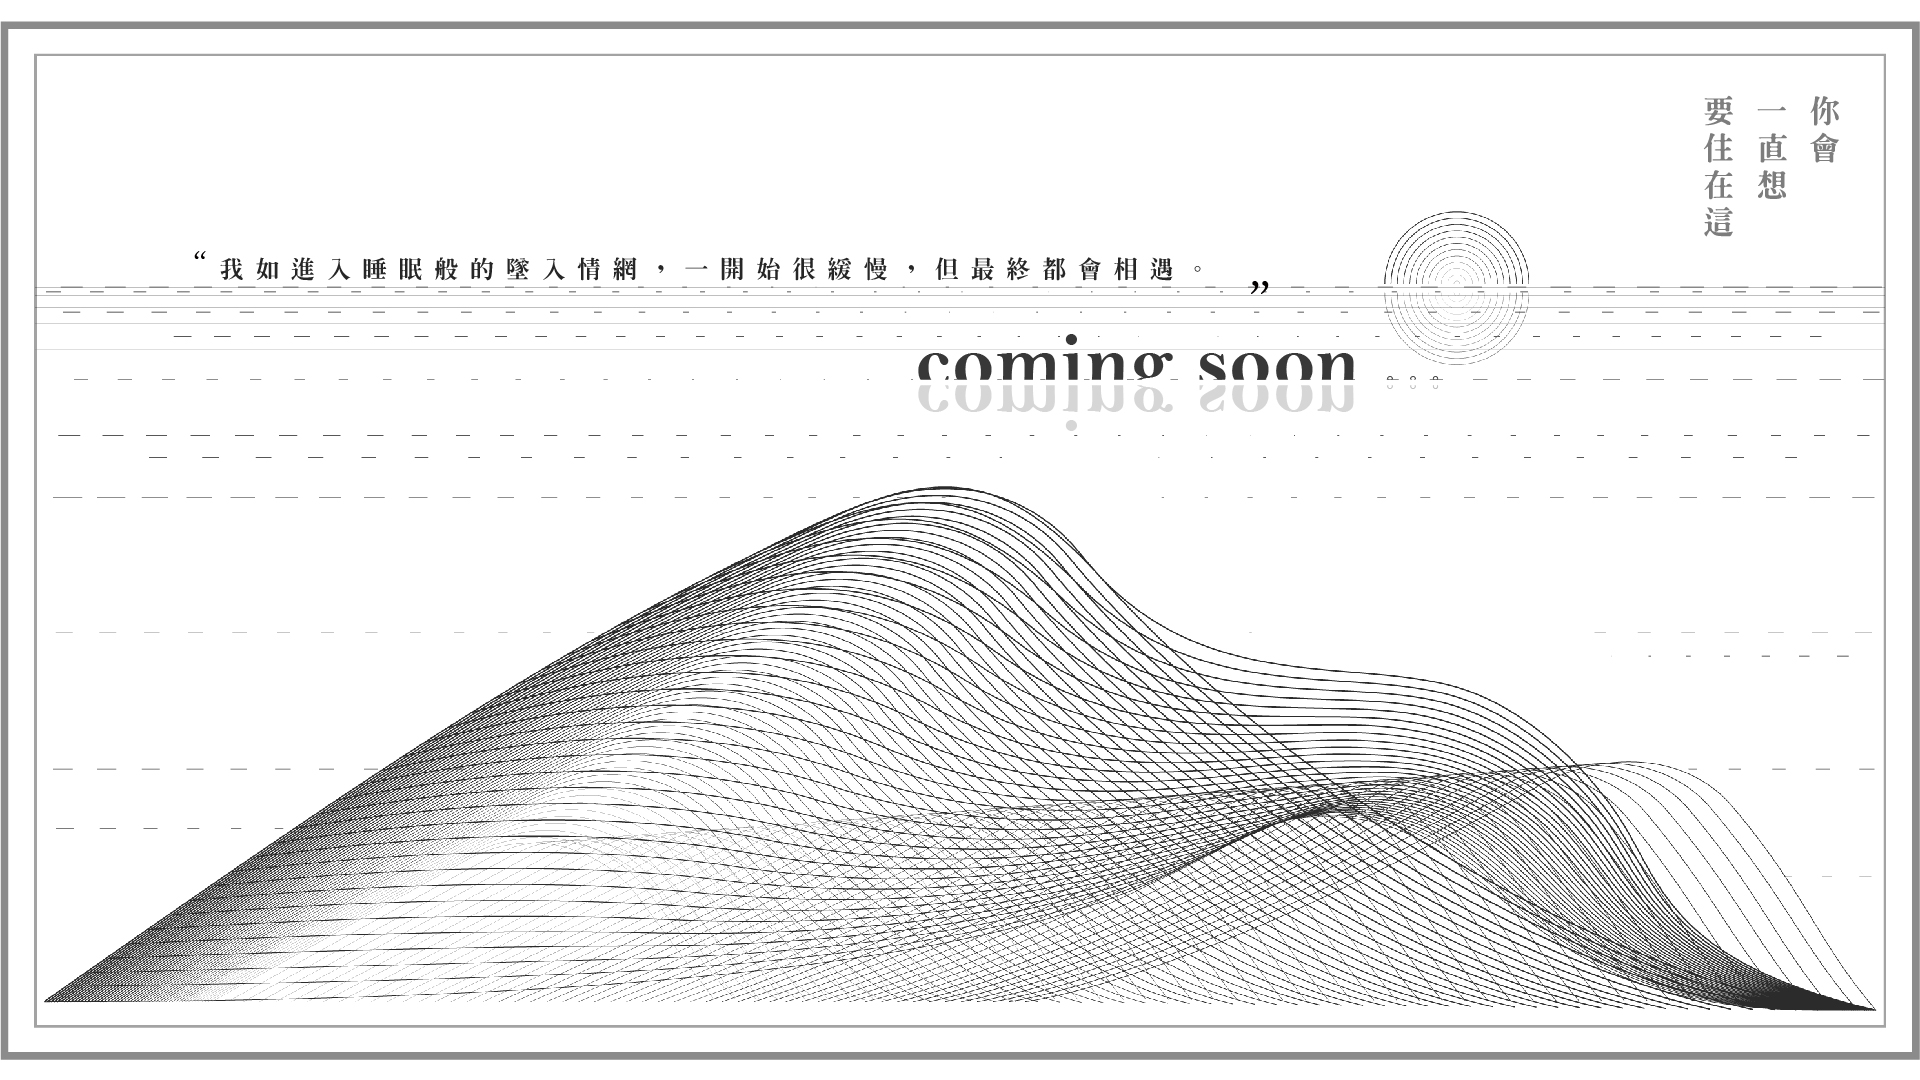
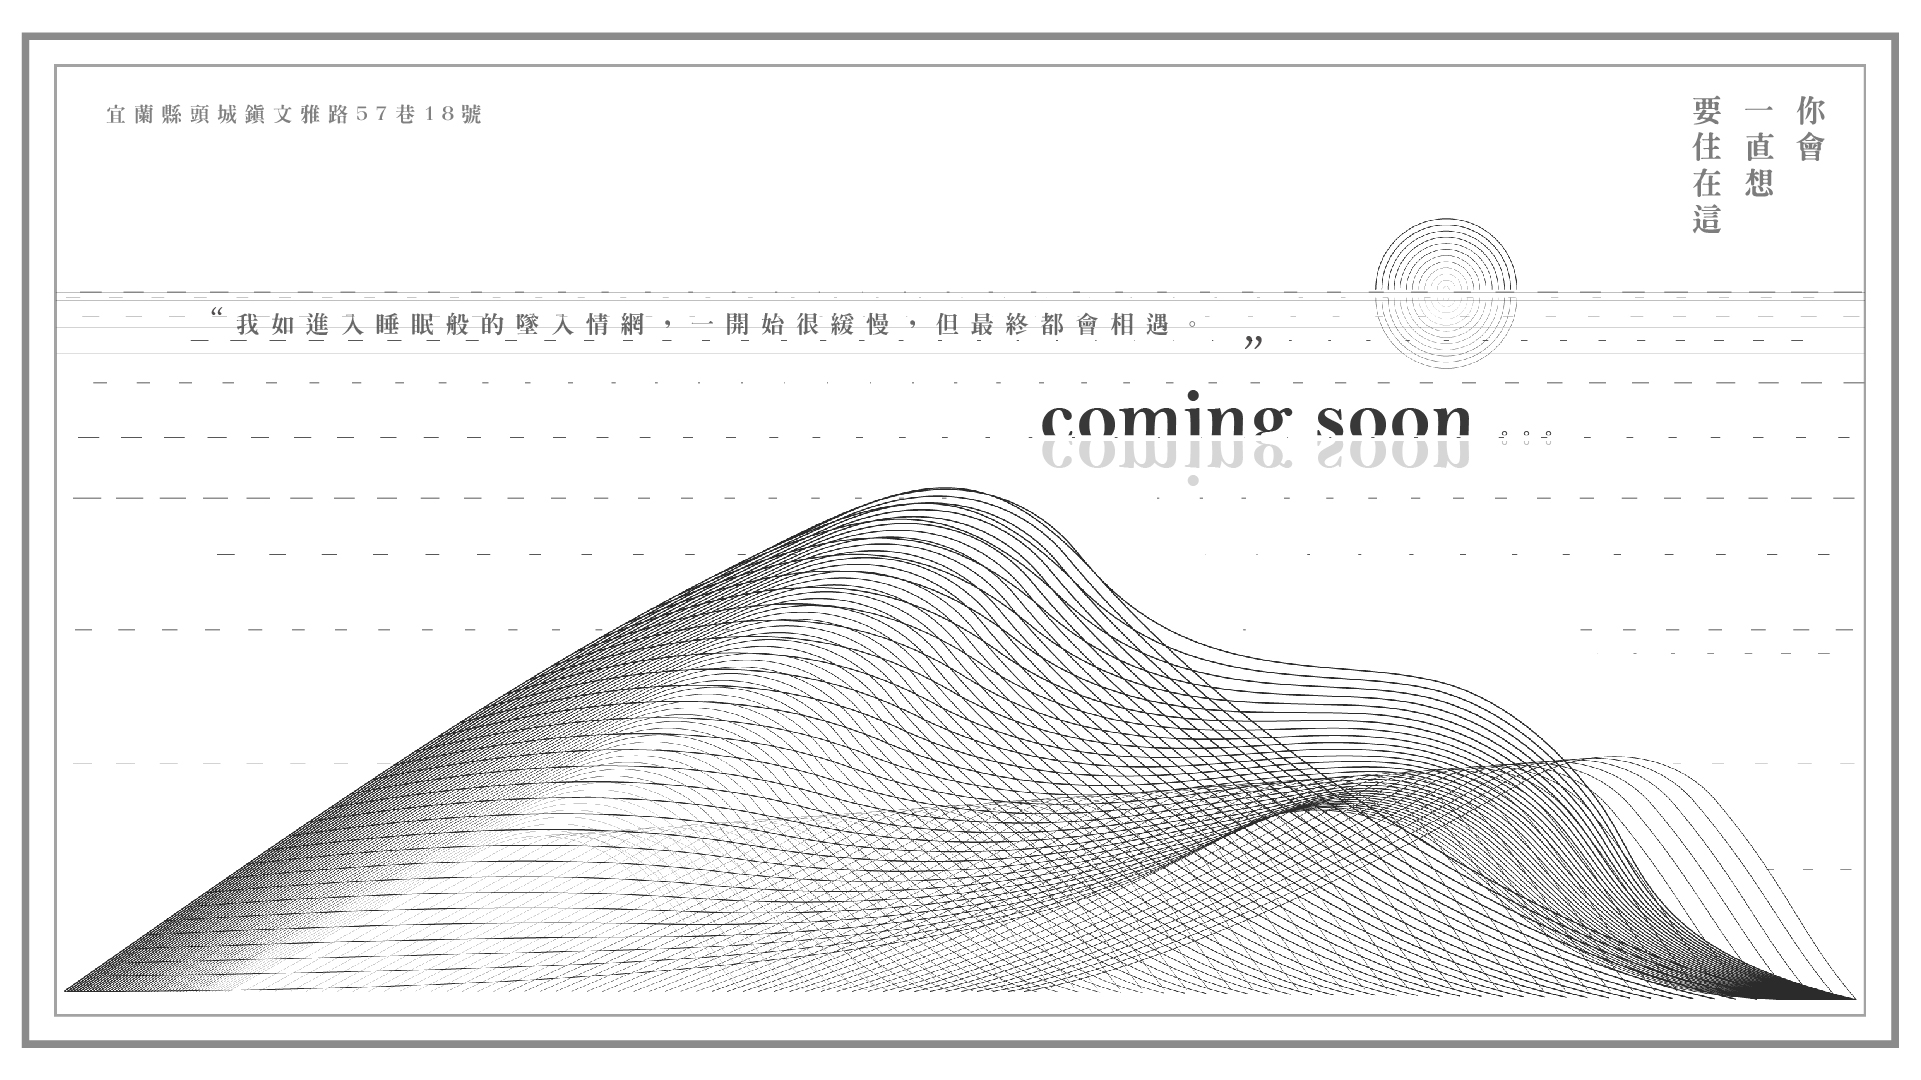
Add files via upload

Changed region(s): [[0.0, 0.0, 1.0, 1.0], [0.0625, 0.0917, 0.25, 0.1222]]

diff --git a/sketch.js b/sketch.js
@@ -3,15 +3,25 @@ let sunSize = 240;
 let lineStep = 24
 
 let oceanLines = []; // array of sline objects
-let bg;
+let bg,bg2;
+let picwid,pichei;
 function preload(){
 	bg = loadImage('img/bg.jpg');
+  bg2 = loadImage('img/bgm.jpg');
 }
 
 
 function setup() {
-  	cnv = createCanvas(windowWidth,windowHeight).parent('processing');
-	centerCanvas();
+  if(displayWidth<768){
+    pichei = windowWidth*16/9;
+    cnv = createCanvas(windowWidth,pichei).parent('processing');
+  }else{
+    pichei = windowWidth*9/16;
+    cnv = createCanvas(windowWidth,pichei).parent('processing');
+  }
+  //cnv = createCanvas(windowWidth,windowHeight).parent('processing');
+  picwid = windowWidth;
+	 centerCanvas();
   // Create objects
   for (var i=0; i<sunSize/lineStep; i++) {
     sunLines.push(new sline(i*lineStep));
@@ -32,9 +42,13 @@ function draw() {
     }
   }
 
-  oceanLines[0].move();*/
-  //oceanLines[0].display();
-  image(bg,0,0,windowWidth,windowWidth*9/16);
+  oceanLines[0].move();
+  oceanLines[0].display();*/
+  if(displayWidth<768){
+    image(bg2,0,0,picwid,pichei);
+  }else{
+    image(bg,0,0,picwid,pichei);
+  }
 }
 
 // sline class
@@ -79,7 +93,7 @@ function oline() {
 function centerCanvas() {
   var x = (windowWidth - width) / 2;
   var y = (windowHeight - height) / 2;
-  cnv.position(x, y-20);
+  cnv.position(x, y);
 }
 function windowResized() {
   //centerCanvas();

diff --git a/index.html b/index.html
@@ -3,6 +3,7 @@
 	    <script language="javascript" type="text/javascript" src="libs/p5.js"></script>
 	    <script language="javascript" type="text/javascript" src="libs/p5.dom.js"></script>
 	    <script src="sketch.js"></script>
+	    <title>Coming soon...</title>
   </head>
   <body>
   	 	<div id="processing">
